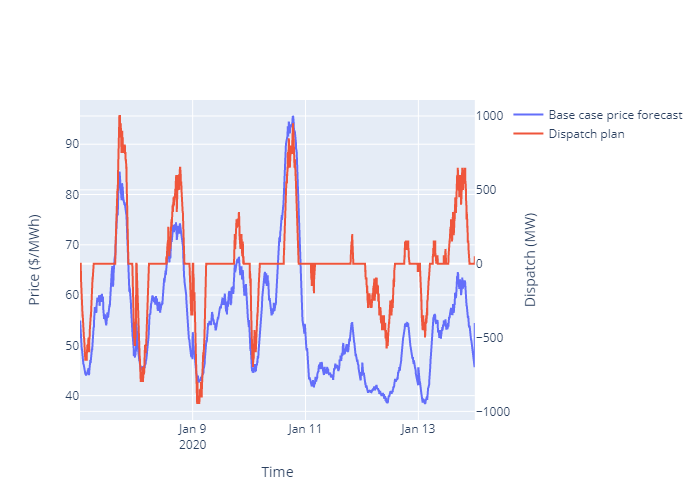
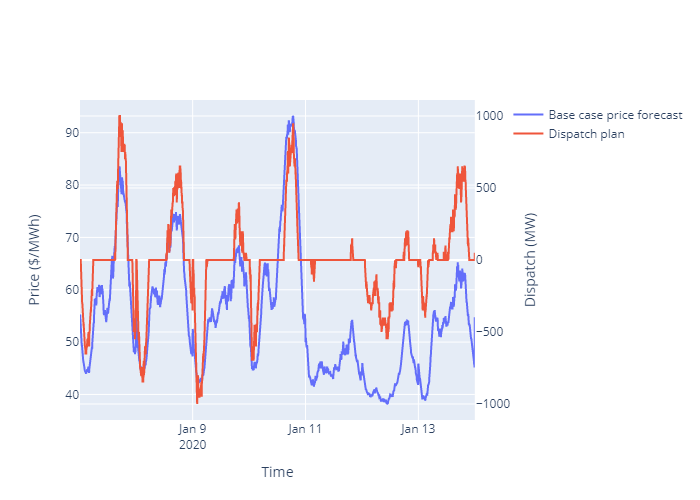
add thermal example. forecasting exmaples

diff --git a/examples/model_cs_energy_portfolio.py b/examples/model_cs_energy_portfolio.py
@@ -1,0 +1,136 @@
+from NEMPRO import planner, units, historical_inputs
+import plotly.graph_objects as go
+from plotly.subplots import make_subplots
+import pandas as pd
+
+raw_data_cache = 'E:/nem_data'
+
+# Build data set for calibrating the dispatch planner's price forecasting model.
+start_time_historical_data = '2020/01/01 00:00:00'
+end_time_historical_data = '2020/02/07 00:00:00'
+
+# Get data to train forecasting model
+training_data = historical_inputs.get_model_training_data(start_time=start_time_historical_data,
+                                                          end_time=end_time_historical_data,
+                                                          region='qld',
+                                                          raw_data_cache=raw_data_cache)
+
+# Exclude high price events to improve model performance. Note the column nsw-energy refers to the spot price
+# for energy in the nsw region.
+training_data = training_data[(training_data['qld-energy'] < 300.0) &
+                              (training_data['qld-energy'] > 0.0)]
+
+# Build data set for running the dispatch planner's price forecasting model.
+start_time_forward_data = '2020/02/07 00:00:00'
+end_time_forward_data = '2020/02/14 00:00:00'
+
+forward_data = historical_inputs.get_forward_data_for_forecast(start_time=start_time_forward_data,
+                                                               end_time=end_time_forward_data,
+                                                               raw_data_cache=raw_data_cache)
+
+# We also need to forecast the BAU fleet dispatch
+historical_fleet_dispatch = historical_inputs.get_fleet_dispatch(start_time=start_time_historical_data,
+                                                     end_time=end_time_historical_data,
+                                                     fleet_units=['CALL_B_1', 'CALL_B_2',
+                                                                  # 'GSTONE1', 'GSTONE2',
+                                                                  # 'GSTONE3', 'GSTONE4', 'GSTONE5', 'GSTONE6',
+                                                                  'KPP_1'],
+                                                     region='qld',
+                                                     raw_data_cache=raw_data_cache)
+
+fleet_dispatch_training_data = pd.merge(training_data, historical_fleet_dispatch, on='interval')
+fleet_dispatch_training_data = fleet_dispatch_training_data.drop(columns=['qld-energy'])
+
+f = planner.Forecaster()
+f.train(fleet_dispatch_training_data, train_sample_fraction=0.5, target_col='qld-energy-fleet-dispatch')
+fleet_dispatch_forecast = f.single_trace_forecast(forward_data)
+forward_data = pd.merge(forward_data, fleet_dispatch_forecast, on='interval')
+
+# Get price forecast traces with sensitivities for different fleet generation levels.
+f = planner.Forecaster()
+f.train(training_data, train_sample_fraction=0.5, target_col='qld-energy')
+price_forecast = f.price_forecast_with_generation_sensitivities(
+    forward_data, region='qld', market='energy', min_delta=-3500, max_delta=3500, steps=50)
+
+# Get historical price data for forecast period.
+price_data = historical_inputs.get_regional_prices(start_time_forward_data,
+                                                   end_time_forward_data,
+                                                   raw_data_cache)
+price_data = price_data.reset_index(drop=True)
+price_data['interval'] = price_data.index
+
+# Create dispatch planner.
+cs_energy_planner = planner.DispatchPlanner(dispatch_interval=5, planning_horizon=len(forward_data.index))
+
+# Add unit commitment model to dispatch planner, units are in MW
+callide_b = units.GenericUnit(cs_energy_planner, initial_dispatch=140.0 * 2)
+callide_b.set_service_region('energy', 'qld')
+callide_b.add_to_market_energy_flow(capacity=350.0 * 2)
+callide_b.add_primary_energy_source(capacity=350.0 * 2, cost=24)
+callide_b.add_unit_hard_minimum_operating_level(min_loading=140 * 2)
+# callide_b.add_ramp_rates_to_energy_flow_to_market(ramp_up_rate=3.17 * 2, ramp_down_rate=3.17 * 2)
+
+# gladstone = units.GenericUnit(cs_energy_planner, initial_dispatch=110.0 * 6)
+# gladstone.set_service_region('energy', 'qld')
+# gladstone.add_to_market_energy_flow(capacity=280.0 * 6)
+# gladstone.add_primary_energy_source(capacity=280.0 * 6, cost=28)
+# gladstone.add_unit_hard_minimum_operating_level(min_loading=110 * 6)
+# gladstone.add_ramp_rates_to_energy_flow_to_market(ramp_up_rate=4.83 * 6, ramp_down_rate=5.0 * 6)
+
+kogan = units.GenericUnit(cs_energy_planner, initial_dispatch=744.0)
+kogan.set_service_region('energy', 'qld')
+kogan.add_to_market_energy_flow(capacity=744.0)
+kogan.add_primary_energy_source(capacity=744.0, cost=16)
+kogan.add_unit_hard_minimum_operating_level(min_loading=300)
+# kogan.add_ramp_rates_to_energy_flow_to_market(ramp_up_rate=3.5, ramp_down_rate=3.5)
+
+cs_energy_planner.add_regional_market('qld', 'energy', forecast=price_forecast)
+cs_energy_planner.optimise()
+
+callide_b_dispatch = callide_b.get_dispatch()
+# gladstone_dispatch = gladstone.get_dispatch()
+kogan_dispatch = kogan.get_dispatch()
+
+dipatch_plan = pd.concat([callide_b_dispatch, kogan_dispatch])
+dipatch_plan = dipatch_plan.groupby('interval', as_index=False).sum()
+forward_data = pd.merge(forward_data, dipatch_plan, on='interval')
+forward_data['qld-demand'] = forward_data['qld-demand'] - \
+                             (forward_data['net_dispatch'] - forward_data['qld-energy-fleet-dispatch'])
+forward_data = forward_data.drop(columns=['net_dispatch', 'qld-energy-fleet-dispatch'])
+modified_forecast_price = f.single_trace_forecast(forward_data)
+
+price_forecast = pd.merge(price_forecast, price_data.loc[:, ['interval', 'SETTLEMENTDATE']], on='interval')
+callide_b_dispatch = pd.merge(callide_b_dispatch, price_data.loc[:, ['interval', 'SETTLEMENTDATE']], on='interval')
+#gladstone_dispatch = pd.merge(gladstone_dispatch, price_data.loc[:, ['interval', 'SETTLEMENTDATE']], on='interval')
+kogan_dispatch = pd.merge(kogan_dispatch, price_data.loc[:, ['interval', 'SETTLEMENTDATE']], on='interval')
+fleet_dispatch_forecast = pd.merge(fleet_dispatch_forecast, price_data.loc[:, ['interval', 'SETTLEMENTDATE']],
+                                   on='interval')
+historical_fleet_dispatch = pd.merge(historical_fleet_dispatch, price_data.loc[:, ['interval', 'SETTLEMENTDATE']],
+                                     on='interval')
+modified_forecast_price = pd.merge(modified_forecast_price, price_data.loc[:, ['interval', 'SETTLEMENTDATE']],
+                                     on='interval')
+
+# Plot a comparison of dispatch planning with and without the price taker assumption.
+fig = make_subplots(specs=[[{"secondary_y": True}]])
+fig.add_trace(go.Scatter(x=price_forecast['SETTLEMENTDATE'], y=price_forecast[0],
+                         name='Base case price forecast'))
+fig.add_trace(go.Scatter(x=modified_forecast_price['SETTLEMENTDATE'], y=modified_forecast_price['qld-energy'],
+                         name='Price forecast with dispatch plan'))
+fig.add_trace(go.Scatter(x=callide_b_dispatch['SETTLEMENTDATE'], y=callide_b_dispatch['net_dispatch'],
+                         name='Callide dispatch plan', stackgroup='one'), secondary_y=True)
+# fig.add_trace(go.Scatter(x=gladstone_dispatch['SETTLEMENTDATE'], y=gladstone_dispatch['net_dispatch'],
+#                          name='Gladstone dispatch plan', stackgroup='one'), secondary_y=True)
+fig.add_trace(go.Scatter(x=kogan_dispatch['SETTLEMENTDATE'], y=kogan_dispatch['net_dispatch'],
+                         name='Kogan Creek dispatch', stackgroup='one'), secondary_y=True)
+fig.add_trace(go.Scatter(x=fleet_dispatch_forecast['SETTLEMENTDATE'],
+                         y=fleet_dispatch_forecast['qld-energy-fleet-dispatch'],
+                         name='Forecast Dispatch'), secondary_y=True)
+fig.add_trace(go.Scatter(x=historical_fleet_dispatch['SETTLEMENTDATE'],
+                         y=historical_fleet_dispatch['qld-energy-fleet-dispatch'],
+                         name='Historical Dispatch'), secondary_y=True)
+
+fig.update_xaxes(title="Time")
+fig.update_yaxes(title="Price ($/MWh)", secondary_y=False)
+fig.update_yaxes(title="Dispatch (MW)", secondary_y=True)
+fig.write_html('images/cs_energy_demo.html', auto_open=True)
+fig.write_image('images/cs_energy_demo.png')

diff --git a/examples/forecaster_validate_against_kogan_2018_trip.py b/examples/forecaster_validate_against_kogan_2018_trip.py
@@ -1,0 +1,110 @@
+from NEMPRO import historical_inputs, planner
+import plotly.graph_objects as go
+from plotly.subplots import make_subplots
+from datetime import datetime, timedelta
+import pandas as pd
+from nemosis import dynamic_data_compiler
+
+
+def run_forecast_and_plot_comparison_to_historical(
+        start_time, training_peroid_length_weeks, forecast_length_weeks, raw_data_cache, units, region):
+
+    price_column = '{}-energy'.format(region)
+
+    # Build data set for calibrating the dispatch planner's price forecasting model.
+    end_time_training = start_time
+    end_time_training_obj = datetime.strptime(start_time, '%Y/%m/%d %H:%M:%S')
+    start_time_training = end_time_training_obj - timedelta(weeks=training_peroid_length_weeks)
+    start_time_training = datetime.isoformat(start_time_training).replace('-', '/').replace('T', ' ')
+
+    training_data = historical_inputs.get_model_training_data(start_time=start_time_training,
+                                                              end_time=end_time_training,
+                                                              region=region,
+                                                              raw_data_cache=raw_data_cache)
+
+    # Exclude high price events to improve model performance. Note the column nsw-energy refers to the spot price
+    # for energy in the nsw region.
+    training_data = training_data[(training_data[price_column] < 1000.0) &
+                                  (training_data[price_column] > 0.0)]
+
+    # Build data set for running the dispatch planner's price forecasting model.
+    start_time_forward_data = start_time
+    start_time_forward_data_obj = datetime.strptime(start_time, '%Y/%m/%d %H:%M:%S')
+    end_time_forward_data = start_time_forward_data_obj + timedelta(weeks=forecast_length_weeks)
+    end_time_forward_data = datetime.isoformat(end_time_forward_data).replace('-', '/').replace('T', ' ')
+
+    forward_data = historical_inputs.get_forward_data_for_forecast(start_time=start_time_forward_data,
+                                                                   end_time=end_time_forward_data,
+                                                                   raw_data_cache=raw_data_cache)
+
+    # Train forecasting model and run forecast
+    f = planner.Forecaster()
+    f.train(training_data, train_sample_fraction=0.1, target_col=price_column)
+    forecast = f.price_forecast_with_generation_sensitivities(forward_data, region=region, market='energy',
+                                                              min_delta=-750, max_delta=0, steps=1)
+
+    # Get actual historical price data for forecast period.
+    price_data = historical_inputs.get_regional_prices(start_time_forward_data,
+                                                       end_time_forward_data,
+                                                       raw_data_cache)
+    price_data = price_data.reset_index(drop=True)
+    price_data['interval'] = price_data.index
+
+    results = pd.merge(forecast, price_data.loc[:, ['interval', 'SETTLEMENTDATE', 'nsw-energy']], on='interval')
+    results = pd.merge(results, forward_data, on='interval')
+
+    plant_dispatch = dynamic_data_compiler(start_time_forward_data, end_time_forward_data, 'DISPATCH_UNIT_SCADA',
+                                           raw_data_cache)
+    plant_dispatch = plant_dispatch[plant_dispatch['DUID'].isin(units)]
+    plant_dispatch = plant_dispatch.groupby('SETTLEMENTDATE', as_index=False).agg({'SCADAVALUE': 'sum'})
+
+    price_data['moving_average'] = \
+        price_data.loc[:, [price_column]].rolling(window=6, center=True).mean()
+
+    fig = make_subplots(specs=[[{"secondary_y": True}]])
+    fig.add_trace(go.Scatter(x=price_data['SETTLEMENTDATE'], y=price_data[price_column], name='Historical prices'))
+    fig.add_trace(go.Scatter(x=price_data['SETTLEMENTDATE'], y=price_data['moving_average'],
+                             name='Historical moving average'))
+    fig.add_trace(go.Scatter(x=results['SETTLEMENTDATE'], y=results[0], name='Forecast prices'))
+    fig.add_trace(go.Scatter(x=results['SETTLEMENTDATE'], y=results[-750], name='Forecast minus 1 GW generation'))
+    fig.add_trace(go.Scatter(x=plant_dispatch['SETTLEMENTDATE'], y=plant_dispatch['SCADAVALUE'],
+                             name='Tripping Unit'), secondary_y=True)
+    fig.update_xaxes(title="Time")
+    fig.update_yaxes(title="Price ($/MWh)", secondary_y=False)
+    fig.update_yaxes(title="Dispatch (MW)", secondary_y=True)
+    fig.write_html('forecast.html', auto_open=True)
+
+    results['bin'] = pd.qcut(results['{}-demand'.format(region)], 20, labels=False)
+
+
+    trip_time = datetime.strptime('2018/04/18 20:48:00', '%Y/%m/%d %H:%M:%S')
+    results_pre_trip = results[results['SETTLEMENTDATE'] <= trip_time]
+    results_post_trip = results[results['SETTLEMENTDATE'] > trip_time]
+
+    results_pre_trip = results_pre_trip.groupby('bin', as_index=False).mean()
+    results_post_trip = results_post_trip.groupby('bin', as_index=False).mean()
+
+    fig = go.Figure()
+    fig.add_trace(go.Scatter(y=results_pre_trip[0], x=results_pre_trip['bin'], name='Baseline forecast'))
+    fig.add_trace(go.Scatter(y=results_pre_trip[-750], x=results_pre_trip['bin'], name='Forecast with tripping plant'))
+    fig.add_trace(go.Scatter(y=results_pre_trip['nsw-energy'], x=results_pre_trip['bin'], name='Historical prices'))
+    fig.write_html('demand_price_relationship_pre_trip.html', auto_open=True)
+
+    fig = go.Figure()
+    fig.add_trace(go.Scatter(y=results_post_trip[0], x=results_post_trip['bin'], name='Baseline forecast'))
+    fig.add_trace(go.Scatter(y=results_post_trip[-750], x=results_post_trip['bin'], name='Forecast with tripping plant'))
+    fig.add_trace(go.Scatter(y=results_pre_trip['nsw-energy'], x=results_pre_trip['bin'],
+                         name='Historical prices pre trip'))
+    fig.add_trace(go.Scatter(y=results_post_trip['nsw-energy'], x=results_post_trip['bin'],
+                         name='Historical prices post trip'))
+    fig.write_html('demand_price_relationship_post_trip.html', auto_open=True)
+
+
+raw_data_cache = 'E:/nem_data'
+
+# The Kogan Creek 750 MW generator tripped at 8:28 pm on th 18/04/2018. No other subsequent trips.
+# https://wattclarity.com.au/articles/2018/04/when-the-nems-largest-generating-unit-trips/
+
+run_forecast_and_plot_comparison_to_historical(start_time='2018/04/16 00:00:00', training_peroid_length_weeks=4,
+                                               forecast_length_weeks=1, raw_data_cache=raw_data_cache,
+                                               units=['KPP_1'], region='qld')

diff --git a/examples/demo_forecaster.py b/examples/demo_forecaster.py
@@ -6,7 +6,9 @@ import pandas as pd
 
 
 def run_forecast_and_plot_comparison_to_historical(
-        start_time, training_peroid_length_weeks, forecast_length_weeks, raw_data_cache):
+        start_time, training_peroid_length_weeks, forecast_length_weeks, raw_data_cache, region):
+
+    price_column = '{}-energy'.format(region)
 
     # Build data set for calibrating the dispatch planner's price forecasting model.
     end_time_training = start_time
@@ -16,13 +18,13 @@ def run_forecast_and_plot_comparison_to_historical(
 
     training_data = historical_inputs.get_model_training_data(start_time=start_time_training,
                                                               end_time=end_time_training,
-                                                              region='nsw',
+                                                              region=region,
                                                               raw_data_cache=raw_data_cache)
 
     # Exclude high price events to improve model performance. Note the column nsw-energy refers to the spot price
     # for energy in the nsw region.
-    training_data = training_data[(training_data['nsw-energy'] < 300.0) &
-                                  (training_data['nsw-energy'] > 0.0)]
+    training_data = training_data[(training_data[price_column] < 300.0) &
+                                  (training_data[price_column] > 0.0)]
 
     # Build data set for running the dispatch planner's price forecasting model.
     start_time_forward_data = start_time
@@ -36,8 +38,8 @@ def run_forecast_and_plot_comparison_to_historical(
 
     # Train forecasting model and run forecast
     f = planner.Forecaster()
-    f.train(training_data, train_sample_fraction=0.1, target_col='nsw-energy')
-    forecast = f.price_forecast_with_generation_sensitivities(forward_data, region='nsw', market='energy', min_delta=-1000,
+    f.train(training_data, train_sample_fraction=0.5, target_col=price_column)
+    forecast = f.price_forecast_with_generation_sensitivities(forward_data, region=region, market='energy', min_delta=-1000,
                                                               max_delta=1000, steps=2)
 
     # Get actual historical price data for forecast period.
@@ -59,13 +61,16 @@ def run_forecast_and_plot_comparison_to_historical(
     fig.write_html('forecast.html', auto_open=True)
 
 
-raw_data_cache = 'E:/nem_data'
+raw_data_directory = 'E:/nem_data'
 
 run_forecast_and_plot_comparison_to_historical(start_time='2020/01/07 00:00:00', training_peroid_length_weeks=4,
-                                               forecast_length_weeks=1, raw_data_cache=raw_data_cache)
+                                               forecast_length_weeks=1, raw_data_cache=raw_data_directory, region='qld')
+run_forecast_and_plot_comparison_to_historical(start_time='2020/02/07 00:00:00', training_peroid_length_weeks=4,
+                                               forecast_length_weeks=1, raw_data_cache=raw_data_directory, region='nsw')
 run_forecast_and_plot_comparison_to_historical(start_time='2020/04/07 00:00:00', training_peroid_length_weeks=4,
-                                               forecast_length_weeks=1, raw_data_cache=raw_data_cache)
+                                               forecast_length_weeks=1, raw_data_cache=raw_data_directory, region='vic')
 run_forecast_and_plot_comparison_to_historical(start_time='2020/06/07 00:00:00', training_peroid_length_weeks=4,
-                                               forecast_length_weeks=1, raw_data_cache=raw_data_cache)
-run_forecast_and_plot_comparison_to_historical(start_time='2020/09/07 00:00:00', training_peroid_length_weeks=4,
-                                               forecast_length_weeks=1, raw_data_cache=raw_data_cache)
+                                               forecast_length_weeks=1, raw_data_cache=raw_data_directory, region='sa')
+run_forecast_and_plot_comparison_to_historical(start_time='2020/08/07 00:00:00', training_peroid_length_weeks=4,
+                                               forecast_length_weeks=1, raw_data_cache=raw_data_directory, region='tas')
+

diff --git a/NEMPRO/historical_inputs.py b/NEMPRO/historical_inputs.py
@@ -138,28 +138,24 @@ def get_fleet_dispatch(start_time, end_time, fleet_units, region, raw_data_cache
 
     dispatch_data = data_fetch_methods.dynamic_data_compiler(start_time, end_time, 'DISPATCHLOAD', raw_data_cache,
                                                              select_columns=['DUID', 'SETTLEMENTDATE', 'TOTALCLEARED',
-                                                                             'INTERVENTION', 'RAISEREG', 'RAISE6SEC',
-                                                                             'RAISE60SEC', 'RAISE5MIN'])
+                                                                             'INTERVENTION'])
     dispatch_data = dispatch_data[dispatch_data['INTERVENTION'] == 0]
 
     dispatch_data = dispatch_data[dispatch_data['DUID'].isin(fleet_units)]
 
     dispatch_data['TOTALCLEARED'] = pd.to_numeric(dispatch_data['TOTALCLEARED'])
-    dispatch_data['RAISEREG'] = pd.to_numeric(dispatch_data['RAISEREG'])
-    dispatch_data['RAISE6SEC'] = pd.to_numeric(dispatch_data['RAISE6SEC'])
-    dispatch_data['RAISE60SEC'] = pd.to_numeric(dispatch_data['RAISE60SEC'])
-    dispatch_data['RAISE5MIN'] = pd.to_numeric(dispatch_data['RAISE5MIN'])
 
     dispatch_data = dispatch_data.groupby('SETTLEMENTDATE', as_index=False).aggregate(
-        {'TOTALCLEARED': 'sum', 'RAISEREG': 'sum', 'RAISE6SEC': 'sum', 'RAISE60SEC': 'sum', 'RAISE5MIN': 'sum'})
+        {'TOTALCLEARED': 'sum'})
 
-    aemo_dispatch_names = {'TOTALCLEARED': region + '-energy-fleet-dispatch',
-                           'RAISEREG': region + '-raise_regulation-fleet-dispatch',
-                           'RAISE6SEC': region + '-raise_6_second-fleet-dispatch',
-                           'RAISE60SEC': region + '-raise_60_second-fleet-dispatch',
-                           'RAISE5MIN': region + '-raise_5_minute-fleet-dispatch'}
+    aemo_dispatch_names = {'TOTALCLEARED': region + '-energy-fleet-dispatch'}
 
     dispatch_data = dispatch_data.rename(columns=aemo_dispatch_names)
+
+    dispatch_data = dispatch_data.sort_values('SETTLEMENTDATE')
+    dispatch_data = dispatch_data.reset_index(drop=True)
+    dispatch_data = dispatch_data.drop(columns=['SETTLEMENTDATE'])
+    dispatch_data['interval'] = dispatch_data.index
 
     return dispatch_data
 

diff --git a/NEMPRO/units.py b/NEMPRO/units.py
@@ -70,6 +70,11 @@ class GenericUnit:
     def set_service_region(self, service, region):
         self.service_region_mapping[service] = region
 
+    def add_unit_hard_minimum_operating_level(self, min_loading):
+        self.min_loading = min_loading
+        for i in range(0, self.planning_horizon_in_intervals):
+            self.out_flow_vars['unit_to_market'][i].lb = min_loading
+
     def add_unit_minimum_operating_level(self, min_loading, shutdown_ramp_rate, start_up_ramp_rate,
                                          min_up_time, min_down_time, time_in_initial_state):
         """Unit commitment constraints are the Tight formulation from Knueven et al. On Mixed Integer Programming

diff --git a/NEMPRO/planner.py b/NEMPRO/planner.py
@@ -373,6 +373,8 @@ class Forecaster:
         self.regressor.fit(X, y)
 
     def price_forecast_with_generation_sensitivities(self, forward_data, region, market, min_delta, max_delta, steps):
+        forward_data = forward_data.copy()
+
         prediction = forward_data.loc[:, ['interval']]
 
         if market + '-fleet-dispatch' in forward_data.columns:

diff --git a/README.md b/README.md
@@ -30,12 +30,13 @@ Formulations for Unit Commitment.
 ## Examples
 
 ### Battery arbitrage
-A simple example to demonstrate NEMPRO is the case of planning a dispatch schedule for a large battery. In the first 
+A simple example to demonstrate NEMPRO is planning a dispatch schedule for a large battery. In the first 
 chart below the dispatch plan for a 1000 MW battery with 4 h of storage is shown. The code for example is here:
 https://github.com/UNSW-CEEM/NEMPRO/blob/master/examples/battery_arbitrage_planning.py. The plan optimiser discharges
-at time of high price, and recharges at times of low price. However to minimise the impact of dispatch on price, and
+at times of high prices, and charges at times of low prices. However to minimise the impact of dispatch on price, and
 maximise net revenue the optimiser does not always charge and discharge at full power, but spreads out charging and 
-discharging more evenly. The second chart shows the same example but for 3000 MW battery with 4 h of storage.
+discharging more evenly. The second chart shows the same example but for 3000 MW battery with 4 h of storage, in this 
+case the battery uses a lower percentage of its peak capacity and further spreads out charging and discharging.
 
 |![Figure1](/examples/images/battery_arbitrage_planning_1000MW.png)|
 |:--:|
@@ -44,3 +45,6 @@ discharging more evenly. The second chart shows the same example but for 3000 MW
 |![Figure2](/examples/images/battery_arbitrage_planning_3000MW.png)|
 |:--:|
 |Dispatch plan for a 3000 MW battery with 4 h of storage|
+
+### CS Energy
+In this example we attempt to recreate the historical behaviour of CS energy 
